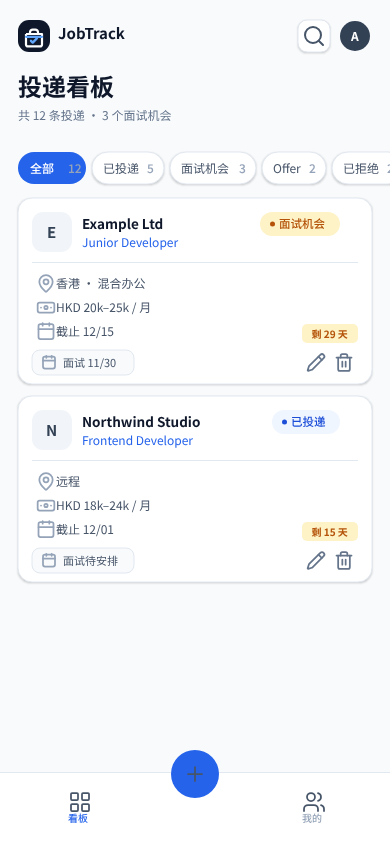
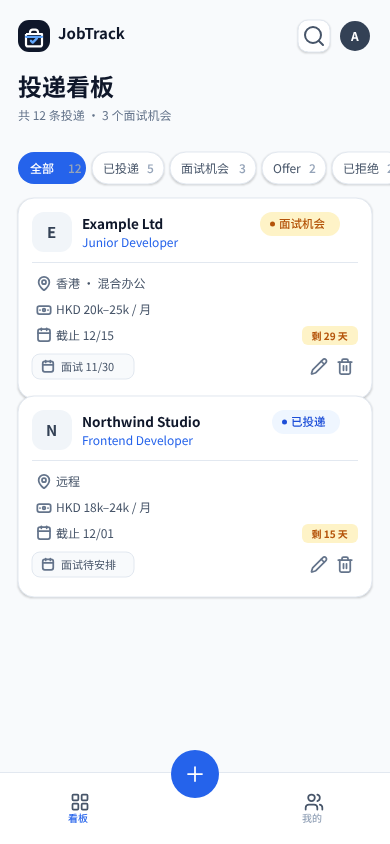
design: light-mode component system, token-bound colors/typography, AA contrast, aligned layout

diff --git a/public/css/app.css b/public/css/app.css
@@ -8,7 +8,7 @@
   --ink: #0f172a;
   --body: #475569;
   --muted: #64748b;
-  --faint: #94a3b8;
+  --faint: #64748b;
 
   --line: #e2e8f0;
   --line-strong: #cbd5e1;

diff --git a/docs/ui-design.md b/docs/ui-design.md
@@ -8,14 +8,15 @@
 > **公开链接：** _待填 — 在查看视图点 `Share` → `Get link`_
 >
 > **画板导出 PNG：** [`draft/design/penpot/`](../draft/design/penpot)，12 张画板图
-> （1:1 实际尺寸：1440×900 / 390×844 / 882×1242）+ 1 张总览板。
+> （1:1 实际尺寸：1440×900 / 390×844）+ 1 张总览板。
 
 This is the **design direction** for the preliminary report, not a finished
 product. Twelve boards cover every screen at both breakpoints (1440×900 desktop,
 390×844 mobile) plus the two dialogs, each at both sizes; the card grid reflows
 from 3 columns to one, the admin table becomes stacked user cards, and the
-detail page drops its right rail into a bottom action bar. A thirteenth frame,
-`13 Component Library`, documents the library.
+detail page drops its right rail into a bottom action bar. The component
+masters live on the file's `Components` page and are not duplicated on the
+screens page.
 
 ![JobTrack — all boards at a glance](../draft/design/penpot/00-overview.png)
 
@@ -119,21 +120,15 @@ exported straight from the Penpot right-hand panel. The checked-in copies in
 
 `12-delete-confirm-modal-mobile.png` · 390×844
 
-### 13 · Component Library
-
-![13 Component Library](../draft/design/penpot/13-component-library.png)
-
-`13-component-library.png` · 882×1242
-
-`00-overview.png` (1388×3440) is exported from the `00 Overview — All Boards`
-board itself: desktop 2×2, the two desktop dialogs, the mobile row, the two
-mobile dialogs, then the component library. Each cell is a linked image fill of
-the latest per-board export, so the overview and the individual boards cannot
-drift apart.
+`00-overview.png` (1388×2700) is exported from the `00 Overview — All Boards`
+board itself: desktop 2×2, the two desktop dialogs, the mobile row, then the
+two mobile dialogs. Each cell is a linked image fill of the latest per-board
+export, so the overview and the individual boards cannot drift apart.
 
 ## Design tokens
 
-The Penpot file has a `JobTrack Core` token set (58 tokens) and matching
+The Penpot file has a `JobTrack Core` token set (65 tokens, including 7 `typography`
+composites: `type-h1/h2/title/body/body-medium/meta/meta-medium`) and matching
 library styles. Shape fills, font size/weight/family, radius, stroke width and
 spacing bind to these tokens, so a palette change propagates.
 
@@ -142,13 +137,18 @@ spacing bind to these tokens, so a palette change propagates.
 | `canvas` | `#F8FAFC` |
 | `surface` | `#FFFFFF` |
 | `line` | `#E2E8F0` |
-| `ink` / `body` / `muted` / `faint` | `#0F172A` / `#475569` / `#64748B` / `#94A3B8` |
+| `ink` / `body` / `muted` / `faint` | `#0F172A` / `#475569` / `#64748B` / `#64748B` |
+
+Text and UI contrast was measured against WCAG AA: body `#475569` 7.6:1, muted/faint
+`#64748B` 4.8:1, white on brand `#2563EB` 5.2:1, white on danger `#DC2626` 4.8:1, and all
+four status pills 4.5–6.2:1. The former `#94A3B8` faint tone (2.6:1) was retired; the
+implementation's `--faint` token moved to `#64748B` at the same time.
 | `brand` / `brand-soft` | `#2563EB` / `#EFF6FF` |
 | applied | `#EFF6FF` / `#1D4ED8` |
 | interviewing | `#FEF3C7` / `#B45309` |
 | offer | `#D1FAE5` / `#047857` |
 | rejected | `#FEE2E2` / `#B91C1C` |
-| radius | 8 / 10 / 14 / pill |
+| radius | 6 / 10 / 12 / 16 / pill |
 | icon scale | 16 inline · 18 nav/input · 20 tab bar · 24 FAB |
 
 ## Screen notes
@@ -167,10 +167,10 @@ spacing bind to these tokens, so a palette change propagates.
 
 ## Component library
 
-`13 Component Library` on the screens page is the visual spec; the **masters**
-live in the file's component library (Assets panel), split between that frame
-(the four status badges) and a dedicated `Components` page (the rest), because
-Penpot cannot move layers across pages.
+The component **masters** live on the file's `Components` page (hidden in view
+mode); the screens page only carries instances. The `Components` page is laid
+out in labelled sections: `BUTTONS`, `SHELLS`, `INPUTS`, `NAV & BRAND`, and
+`ICONS`.
 
 Badges are real components and every badge on every screen is an instance:
 
@@ -197,7 +197,7 @@ are a real interactive variant set with `Variant` and `State` properties:
 | `drawer-shell` | mobile bottom sheet with grabber, rounded top and footer |
 | `app-icon` | shared briefcase + progress-check brand mark |
 
-That is 33 component sets in the file library: 19 icon components, 3 icon-button variant sets (9 states), and the badges, chips, fields, shells and app icon.
+That is 37 component sets in the file library: 19 icon components, 3 state-variant button sets (9 states), 3 single button components used by the pages (`btn-primary` / `btn-save` / `btn-danger`), and the badges, chips, fields, shells and app icon.
 Component boards on the `Components`
 page are marked "hide in view mode", so the viewer only shows screens and the
 two dialogs.
